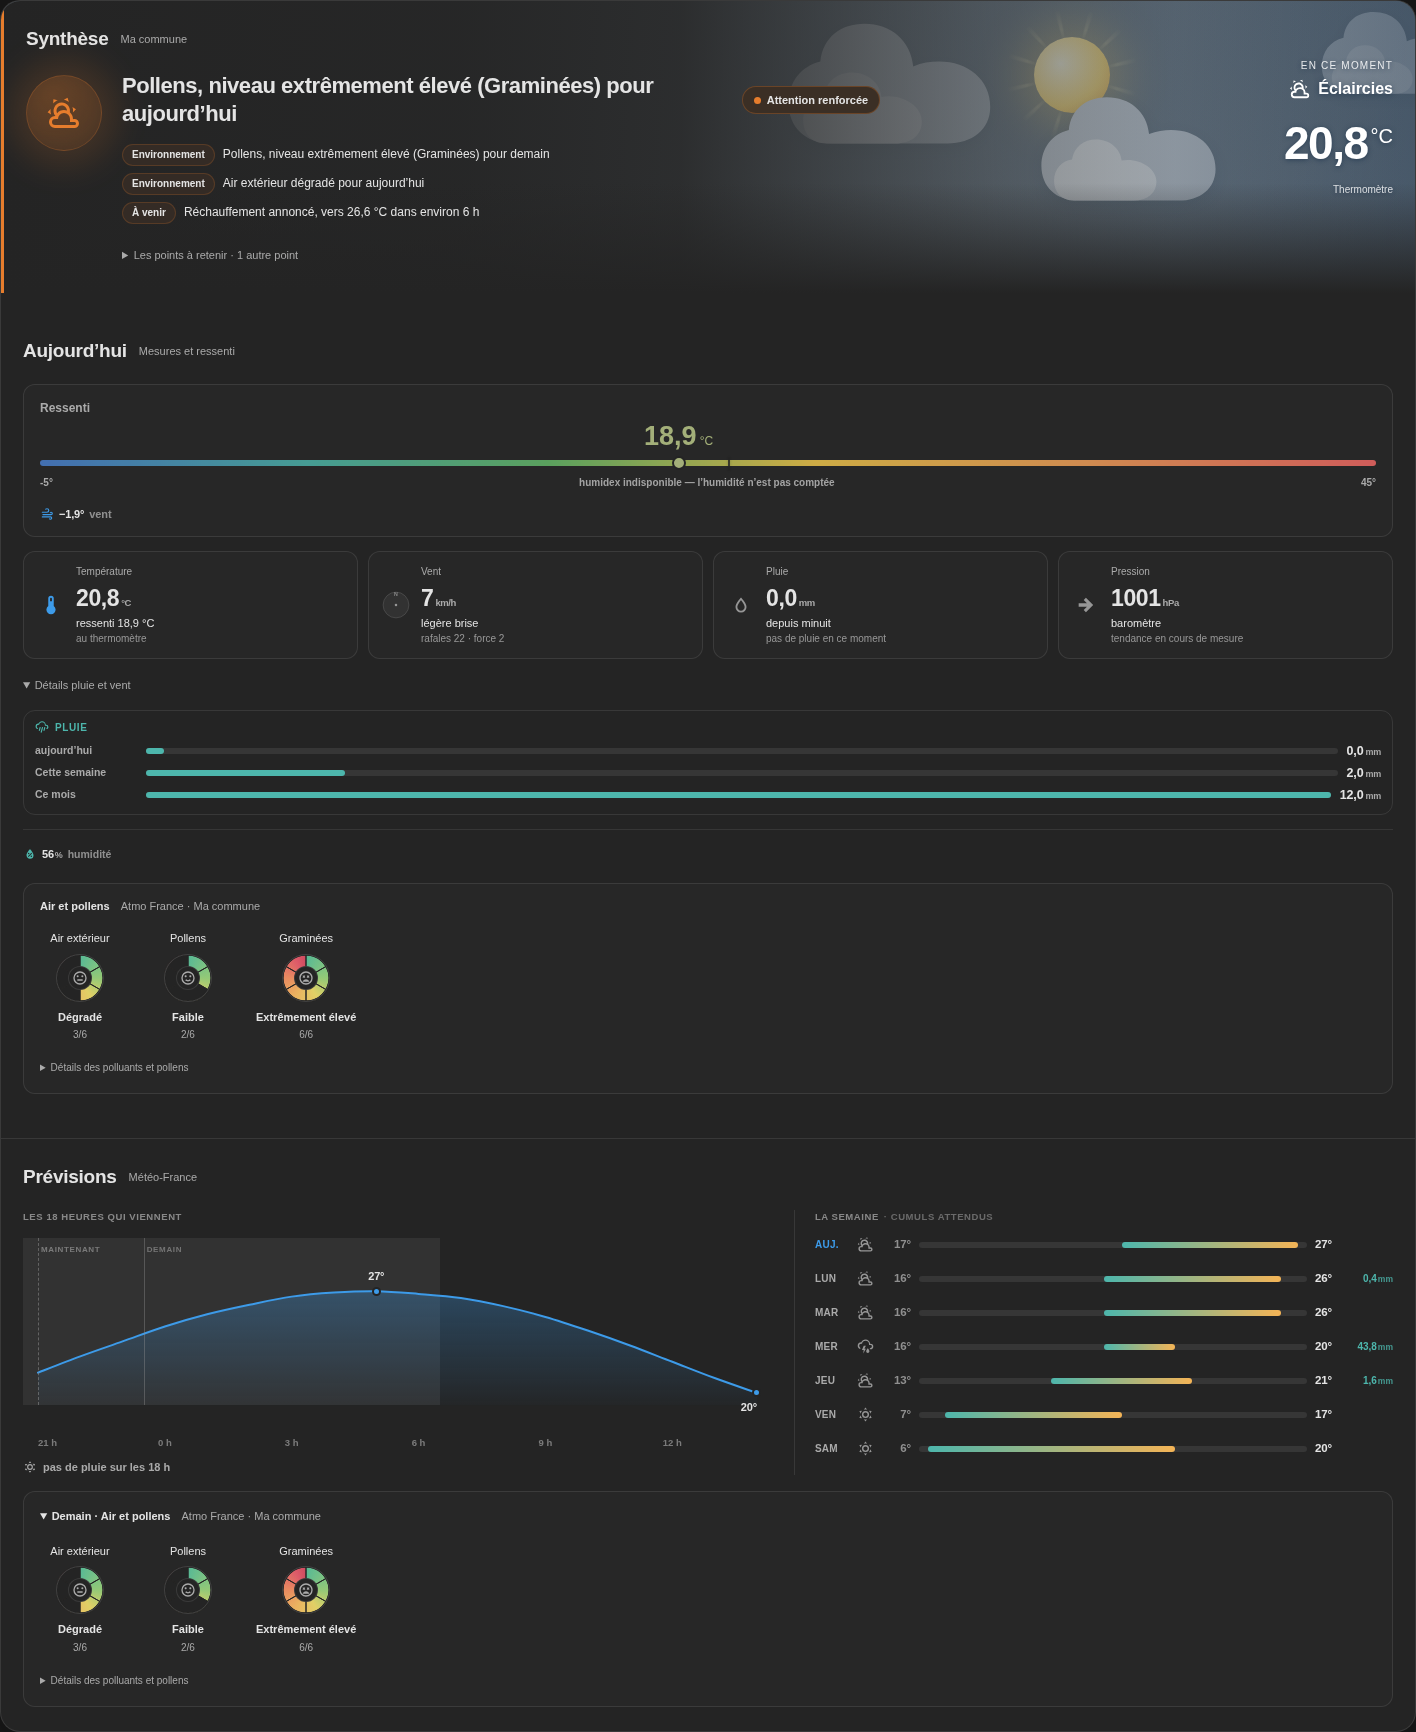
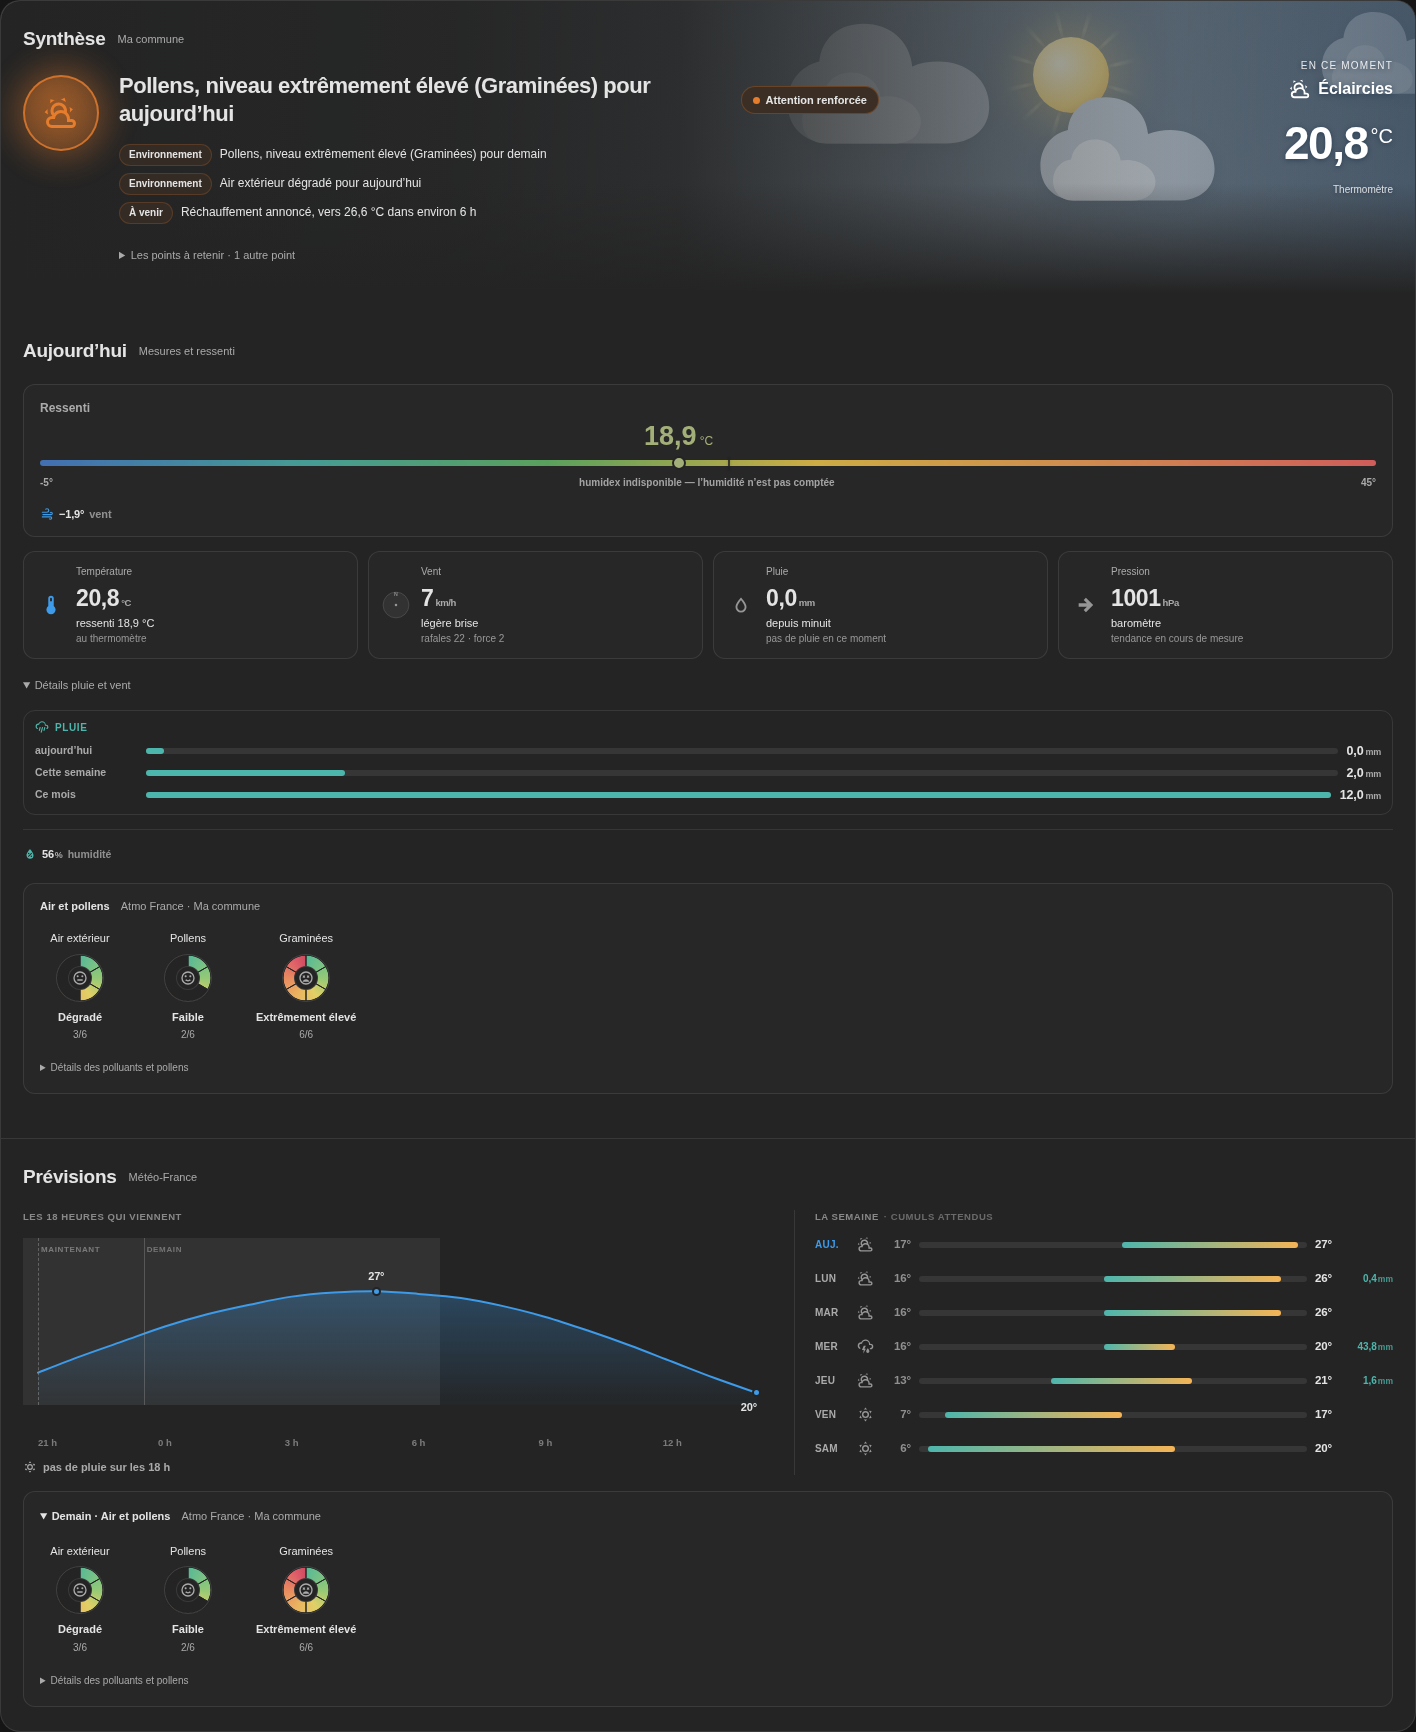
release: prepare stable v1.3.3 with stronger synthesis halo

Changed region(s): [[0.0, 0.0, 0.4661, 0.1247], [0.5593, 0.0312, 0.5904, 0.0624]]

diff --git a/src/dashboard-view.ts b/src/dashboard-view.ts
@@ -84,7 +84,7 @@ export const dashboardStyles = css`
   .nw-section-heading>span { font-size:11px; color:var(--secondary-text-color); }
   .nw-attention { display:inline-flex; align-items:center; gap:6px; flex-shrink:0; margin-left:auto; padding:6px 11px; border:1px solid rgba(var(--vc),.28); border-radius:999px; background:color-mix(in srgb,var(--card-background-color,#fff) 88%,rgb(var(--vc)) 12%); color:var(--primary-text-color); font-size:11px; font-weight:600; line-height:1.3; white-space:nowrap; }
   .nw-attention i { width:7px; height:7px; flex-shrink:0; border-radius:50%; background:rgb(var(--vc)); }
-  .nw-synthesis { position:relative; isolation:isolate; overflow:hidden; display:grid; grid-template-columns:76px minmax(0,1fr) minmax(240px,.65fr); column-gap:20px; border-left:3px solid rgb(var(--vc)); }
+  .nw-synthesis { position:relative; isolation:isolate; overflow:hidden; display:grid; grid-template-columns:76px minmax(0,1fr) minmax(240px,.65fr); column-gap:20px; }
   .nw-sky-backdrop { position:absolute; inset:0; z-index:-2; pointer-events:none; }
   .nw-sky-backdrop::after { content:''; position:absolute; inset:0; background:linear-gradient(90deg,transparent 45%,#10243b24 70%,#10243b85); }
   .nw-synthesis::after { content:''; position:absolute; inset:auto 0 0; height:110px; max-height:45%; z-index:-1; pointer-events:none; background:linear-gradient(180deg,transparent,var(--card-background-color,#fff)); }
@@ -92,9 +92,10 @@ export const dashboardStyles = css`
   .nw-synthesis::before { content:''; position:absolute; inset:0; z-index:-1; pointer-events:none; background:linear-gradient(90deg,var(--card-background-color,#fff) 0%,color-mix(in srgb,var(--card-background-color,#fff) 97%,transparent) 32%,color-mix(in srgb,var(--card-background-color,#fff) 90%,transparent) 48%,color-mix(in srgb,var(--card-background-color,#fff) 55%,transparent) 64%,color-mix(in srgb,var(--card-background-color,#fff) 12%,transparent) 83%,transparent 100%); }
   .nw-synthesis>.nw-section-heading { grid-column:1 / 3; grid-row:1; position:relative; z-index:1; }
   .nw-summary-emblem { grid-column:1; grid-row:2 / span 2; align-self:start; margin-top:3px; width:76px; height:76px; pointer-events:none; }
-  .nw-synthesis .me-rond { background:radial-gradient(circle at 35% 25%,rgba(var(--vc),.22),rgba(var(--vc),.07)); animation:meRespire 4.2s ease-in-out infinite; }
-  .nw-synthesis .me-halo { inset:-16px; opacity:.5; animation:nwHalo 5.2s ease-in-out infinite; }
-  @keyframes nwHalo { 0%,100% { opacity:.35; transform:scale(.94); } 50% { opacity:.65; transform:scale(1.1); } }
+  .nw-synthesis .me-rond { background:radial-gradient(circle at 35% 25%,rgba(var(--vc),.32),rgba(var(--vc),.12)); border:2px solid rgba(var(--vc),.8); animation:nwEmblemGlow 4.2s ease-in-out infinite; }
+  .nw-synthesis .me-halo { inset:-23px; background:radial-gradient(circle,rgba(var(--vc),.65) 0%,rgba(var(--vc),.38) 42%,rgba(var(--vc),0) 73%); filter:blur(12px); opacity:.75; animation:nwHalo 4.2s ease-in-out infinite; }
+  @keyframes nwHalo { 0%,100% { opacity:.65; transform:scale(.96); } 50% { opacity:1; transform:scale(1.16); } }
+  @keyframes nwEmblemGlow { 0%,100% { box-shadow:0 0 14px rgba(var(--vc),.35),inset 0 0 12px rgba(var(--vc),.12); } 50% { box-shadow:0 0 26px rgba(var(--vc),.6),inset 0 0 18px rgba(var(--vc),.22); } }
   .nw-summary-lead { grid-column:2; grid-row:2; display:flex; align-items:center; flex-wrap:wrap; gap:10px 16px; min-height:30px; position:relative; z-index:1; }
   .nw-summary-lead h3 { flex:1 1 200px; }
   .nw-summary-lead h3 { font-size:22px; font-weight:700; letter-spacing:-.45px; line-height:1.3; margin:0; overflow-wrap:anywhere; }

diff --git a/README.md b/README.md
@@ -4,7 +4,7 @@
 
 Une température seule ne raconte pas toute la météo : 25 °C à l’ombre, avec de l’humidité ou sous un vent soutenu, ne se vivent pas de la même façon. La carte donne du contexte aux chiffres et rapproche les observations de votre maison des prévisions de votre zone, sans les confondre.
 
-**Version stable : v1.3.2.** La documentation principale et les textes de la carte sont en français. [Correctifs de présentation](docs/release-1.3.2.md).
+**Version stable : v1.3.3.** La documentation principale et les textes de la carte sont en français. [Nouveautés et correctifs](docs/release-1.3.3.md).
 
 La carte s’organise en **Synthèse, Aujourd’hui et Prévisions**. La synthèse intelligente est accompagnée de la météo actuelle et d’un ciel animé sur tout le bandeau : nuages, pluie, éclairs ou rafales. Le halo d’attention conserve sa signification, distincte de l’ambiance météo. Le ressenti expliqué, les indices air/pollens et les graphiques complètent cette lecture. [Nouveautés et mise à jour](docs/release-1.3.0.md) · [Météo actuelle et animations](docs/current-weather.md) · [Comprendre le brief et ses limites](docs/brief-intelligent.md).
 
@@ -72,7 +72,7 @@ Le [guide des sources](docs/sources.md) explique pour chacune sa configuration, 
 
 1. Ouvrez le bouton HACS en haut de cette page. Il ouvre le dépôt, sans installer automatiquement la carte.
 2. Si le dépôt n’est pas trouvé, ajoutez `https://github.com/Niakman13/niak-weather` dans **HACS → ⋮ → Dépôts personnalisés**, catégorie **Tableau de bord / Dashboard**. Il s’agit d’un dépôt personnalisé, pas d’un référencement dans le catalogue HACS par défaut.
-3. Téléchargez **Niak Weather v1.3.2**, puis rechargez le navigateur.
+3. Téléchargez **Niak Weather v1.3.3**, puis rechargez le navigateur.
 4. Dans votre tableau de bord, choisissez **Ajouter une carte → Niak Weather** et sélectionnez votre entité météo.
 5. Complétez **Entités de la station**, **Entités Thermal Comfort** et, si souhaité, **Atmo France — air extérieur et pollens**. Utilisez **Préremplir les entités manquantes**, puis vérifiez les propositions avant d’enregistrer.
 
@@ -100,9 +100,9 @@ mode: detailed
 
 Ces identifiants sont des **exemples**, pas des noms imposés. Privilégiez vos entités réelles dans l’éditeur. Le [tutoriel d’installation](docs/installation.md) détaille les ressources, les réglages et le dépannage.
 
-## Mettre à jour vers v1.3.2
+## Mettre à jour vers v1.3.3
 
-Dans **HACS → Niak Weather**, utilisez **Mettre à jour** ou **⋮ → Retélécharger** et sélectionnez **v1.3.2**. Il n’est pas nécessaire d’activer les préversions. Rechargez ensuite le navigateur avec **Ctrl+F5** ; sur mobile, videz le cache frontend si l’ancienne version reste affichée.
+Dans **HACS → Niak Weather**, utilisez **Mettre à jour** ou **⋮ → Retélécharger** et sélectionnez **v1.3.3**. Il n’est pas nécessaire d’activer les préversions. Rechargez ensuite le navigateur avec **Ctrl+F5** ; sur mobile, videz le cache frontend si l’ancienne version reste affichée.
 
 Les mises à jour utilisent la même ressource et conservent vos entités et réglages. Vous pouvez enrichir la configuration progressivement, sans recommencer l’installation. [Notes de version](docs/release-1.3.0.md).
 

diff --git a/docs/release-1.3.3.md b/docs/release-1.3.3.md
@@ -1,0 +1,9 @@
+# Niak Weather v1.3.3
+
+Le bandeau Synthèse perd son liseré gauche. Le halo autour de l’icône est plus lumineux, avec un contour net et une pulsation douce. Sa couleur conserve la signification du niveau d’attention ; les préférences de réduction des animations sont respectées.
+
+Les réglages des anciens capteurs de météo et de prévisions par template, ainsi que la qualité de l’air intérieur, sont supprimés. La carte utilise son calcul intégré et les prévisions de l’entité météo Home Assistant. Les anciennes clés de configuration sont ignorées ; les autres entités et réglages sont conservés.
+
+La documentation présente désormais les captures complètes du nouveau design, en thèmes clair et sombre, en complément de la miniature de présentation.
+
+Dans **HACS → Niak Weather**, mettez à jour vers **v1.3.3**, puis rechargez le navigateur avec **Ctrl+F5**. Sur mobile, videz le cache frontend si nécessaire.
